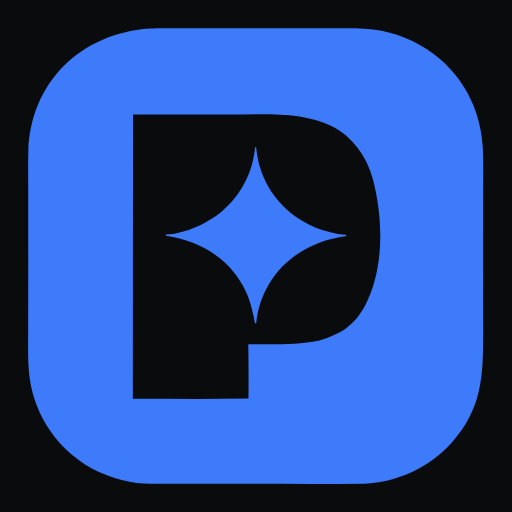
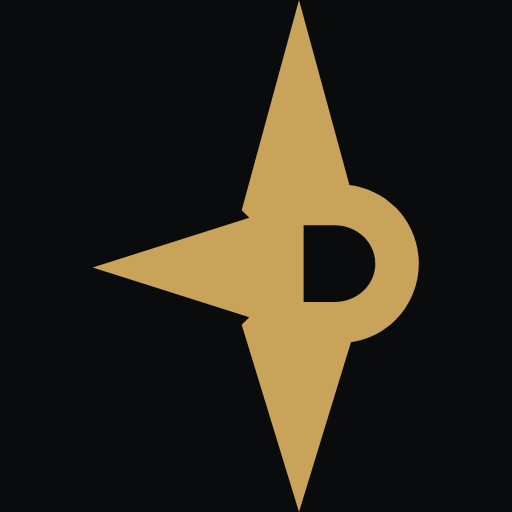
brand: swap to the compass rose P mark (brand layer only)
Mark, colourways, favicon, outlined Cormorant lockup, previews and OG card
replaced; navy/gold/cream primitives and a brand/mark semantic token added
(gold in dark, navy in light); UI keeps ink surfaces and the blue accent.
Figma library mirrored by hand (see decisions.md).

diff --git a/src/styles/tokens.css b/src/styles/tokens.css
@@ -21,6 +21,9 @@
   --green-600: #3F6B5B;
   --green-500: #4F8168;
   --green-400: #6FA184;
+  --navy-900: #16213B;
+  --gold-500: #C9A35A;
+  --cream-100: #F3EEE3;
   --type-11-size: 11px;
   --type-11-line: 16px;
   --type-12-size: 12px;
@@ -79,6 +82,7 @@
   --tag-text-warning: #E8A33D;
   --accent-text: var(--blue-400);
   --button-accent-label: var(--ink-950);
+  --brand-mark: var(--gold-500);
 }
 
 :root[data-theme="light"] {
@@ -101,6 +105,7 @@
   --tag-text-warning: #815718;
   --accent-text: var(--blue-700);
   --button-accent-label: var(--paper-0);
+  --brand-mark: var(--navy-900);
 }
 
 /* Component tokens */

diff --git a/.storybook/manager-head.html b/.storybook/manager-head.html
@@ -36,9 +36,8 @@
 <meta name="twitter:image" content="https://pathfinder-ds.vercel.app/og.png" />
 
 <!--
-  The brand image is now a filled app-icon tile rather than the old flat
-  swoosh, so it carries far more optical weight at the same pixel size and
-  was dominating the sidebar header. Storybook has no config for brandImage
+  The brand image is the gold compass rose mark on a transparent canvas
+  (public/brand-mark.svg). Storybook has no config for brandImage
   dimensions, so it is constrained here.
 -->
 <style>

diff --git a/decisions.md b/decisions.md
@@ -200,3 +200,11 @@ file in `specs/decisions/`.
 | Component counts swept from "8 of 15" to "9 of 16" across `CLAUDE.md`, `design.md` (x3), the Storybook Introduction page (x3) and the case study (x8) | adding EmptyState silently falsified a number stated in 15 places. This is exactly the drift the one-direction pipeline exists to prevent, and it happened in prose rather than in tokens - the place the pipeline does not reach. Worth noting in the study: generated docs cannot go stale, hand-written counts can and did |
 | Introduction page also corrected from "one composed screen" to two, and now links the Figma library alongside the repo | both claims went stale in the same pass that added Search View. The Figma link uses the `/design/` URL form pointing at the cover page as the landing node |
 | Stale `mark / tile / final (queued swap)` container deleted from the Figma brand page | the swap shipped, so the label was actively wrong and the identity section directly above already shows the final mark at every size in every colorway |
+| Brand mark replaced by the compass rose P (north, south and west rays; the east ray is the bowl of a P), one shape at every size, designed in the separate `pathfinder brand mark` Figma file | the planner film and this study now share one identity. The swoosh-and-star tile read as a generic app-icon P; the compass rose carries the wayfinding idea in the shape itself and passed the logo gate (reads at 16 px, one colour, solid) |
+| Brand layer only: navy-900, gold-500 and cream-100 added as primitives plus one semantic token `brand/mark` (gold in dark, navy in light); the UI keeps ink surfaces and the blue accent | a full repaint would reopen every contrast pair, the Figma variables and both screens for no portfolio gain. Brand colors are scoped to the mark and brand surfaces and never replace `accent/*` |
+| `brand/mark.svg` ships literal gold, `mark-inverted.svg` literal navy, new `mark-cream.svg` literal cream, `mark-mono.svg` keeps `currentColor`; `mark-flat.svg` deleted | the new mark is a single colour, so the old flat/two-tone split no longer exists; one file per brand colorway plus a theme-inheriting mono file covers every use |
+| Favicon is the mark on a navy rounded tile with a 2.6-unit stroke thickening, not the bare mark | at 16 px the bowl's opening closes up without the stroke, and a transparent favicon disappears on dark browser tabs; versions redrawn for 16 px were tested and read as a door knob or a blob |
+| Lockup wordmark set in Cormorant Garamond SemiBold (outlined with fontTools from the variable font at wght 600), replacing Geist | the brand wordmark is the serif from the brand file; Geist stays the UI typeface. Outlining keeps the SVG self-contained, same as the previous lockup |
+| `public/og.png` edited in place (old tile painted out, gold mark pasted at the same centre) rather than regenerated | the card's type, glow and layout were already right; only the mark changed |
+| Figma library mirrored: primitives navy/900, gold/500, cream/100 and semantic `brand/mark` (dark gold, light navy) added with the same scopes as the blue ramp; `brand mark` component set rebuilt in place with variants renamed tile/inverted/mono to navy/gold/mono | renaming in place kept every instance (cover, brand page, all four screen sidebars) linked, and the old usage already split by surface: the tile was used on light surfaces (now navy), inverted on dark (now gold) |
+| Brand page lockups rebuilt (mark instance + outlined Cormorant wordmark, wordmark keeps its existing bound fill), a paper backing added behind the light-use identity mark, and three brand swatches appended to the palette grid; cover mark swapped to gold and its stat line corrected from 76 to 80 variables | the brand page sits on a dark canvas, so a navy mark needs a light field to be read at all; the cover count is hand-typed and went stale the moment four variables were added, the same drift class as the component counts |

diff --git a/design.md b/design.md
@@ -21,6 +21,7 @@ colors:
   success: "#4F8168"       # success, dark theme (green/500)
   warning: "#E8A33D"        # warning, dark theme (literal)
   danger: "#E5484D"         # danger, dark theme (literal)
+  brand: "#C9A35A"          # brand/mark, dark theme (gold/500); mark and brand surfaces only, never UI
 typography:
   fontFamily: "'Geist', -apple-system, 'Segoe UI', sans-serif"
   monoFamily: "'Geist Mono', ui-monospace, 'SF Mono', monospace"
@@ -60,7 +61,7 @@ components:               # 9 of 16 Pathfinder components are built in code; the
 # Overview
 
 Pathfinder is a concept design system for a fictional planner/to-do/notes app: precision-productivity
-in personality, keyboard-first, with the wayfinding motif (constellation mark, trail lines) kept as a
+in personality, keyboard-first, with the wayfinding motif (the compass rose mark, trail lines) kept as a
 subtle hint rather than costume theming. Dark theme is first-class, not an inverted afterthought - the
 system is built dark-first and light is a mirror at the semantic tier only. The governing principle:
 every visual decision routes through `tokens/tokens.json`, never invented ad hoc.
@@ -90,6 +91,9 @@ every visual decision routes through `tokens/tokens.json`, never invented ad hoc
 | green/600 | #3F6B5B |
 | green/500 | #4F8168 |
 | green/400 | #6FA184 |
+| navy/900 | #16213B |
+| gold/500 | #C9A35A |
+| cream/100 | #F3EEE3 |
 
 ## Semantic (theme-swapped)
 | Token | Dark | Light |
@@ -110,6 +114,7 @@ every visual decision routes through `tokens/tokens.json`, never invented ad hoc
 | tag-text/neutral | {slate/300} `#9AA1B4` | {slate/500} `#4D5468` |
 | tag-text/danger | `#E5484D` (literal) | `#BE2F36` (literal) |
 | tag-text/warning | `#E8A33D` (literal) | `#815718` (literal) |
+| brand/mark | {gold/500} `#C9A35A` | {navy/900} `#16213B` |
 
 `tag-text/*` exists because Tag and DateChip render text on top of a translucent tint (the hue
 token at 18% opacity over `surface/base` or `surface/raised`, 13% for danger), not on a solid
@@ -120,10 +125,11 @@ both surface steps, in both themes (see `decisions.md`). One documented exceptio
 danger tint over `surface/raised` still falls short of 4.5:1 (dark 3.83:1, light 4.39:1), so
 danger only ships on `surface/base`.
 
-Usage rules: `accent/default` stays under ~10% of any view (buttons, active states, the
-constellation north star). Body text is always `text/primary` on `surface/base`; `surface/raised`
+Usage rules: `accent/default` stays under ~10% of any view (buttons, active states).
+Body text is always `text/primary` on `surface/base`; `surface/raised`
 is for cards, panels, and floating chrome (modal, command bar, toast). `border/subtle` is the only
-hairline color in the system - no ad hoc grays.
+hairline color in the system - no ad hoc grays. The brand colors (navy, gold, cream) belong to the
+mark and brand surfaces only, through `brand/mark`; they never replace `accent/*` in the UI.
 
 # Typography
 

diff --git a/brand/palette.md b/brand/palette.md
@@ -42,6 +42,28 @@ same technique used for the light-theme danger/warning nudge.
 | green-500 | #4F8168 |
 | green-400 | #6FA184 |
 
+### Brand (mark and brand surfaces only)
+The mark, lockup, favicon and brand art use navy, gold and cream. They are not UI colors: the
+interface keeps ink surfaces and the blue accent. `brand/mark` resolves to gold in dark theme and
+navy in light theme.
+
+| Token | Hex |
+|---|---|
+| navy-900 | #16213B |
+| gold-500 | #C9A35A |
+| cream-100 | #F3EEE3 |
+
+Measured (WCAG 2.x ratio; the mark is a graphic, so 3:1 is the floor, all clear 4.5:1 anyway):
+
+| Pair | Ratio |
+|---|---|
+| gold-500 on ink-950 | 8.32 |
+| gold-500 on ink-800 | 7.20 |
+| navy-900 on paper-0 | 15.45 |
+| navy-900 on paper-50 | 14.65 |
+| gold-500 on navy-900 | 6.75 |
+| cream-100 on navy-900 | 13.80 |
+
 ### Status
 Status colors are theme-aware like text/accent: the dark-theme hex is the base brand value; the
 light-theme hex is a lightness-only nudge (same hue and saturation) so text/UI use clears 4.5:1 on

diff --git a/.claude/rules/build.md b/.claude/rules/build.md
@@ -3,7 +3,7 @@
 <!-- @imported by CLAUDE.md. Keep it to the commands Claude actually needs to run this project. -->
 
 ## Stack
-Vite + React + Storybook. Deliberately basic: this project is proof of a one-direction tokens.json → CSS → code pipeline (with tokens.json also hand-mirrored into Figma variables), not a production app. 8 of 15 Pathfinder components get built in code; the rest live in Figma only.
+Vite + React + Storybook. Deliberately basic: this project is proof of a one-direction tokens.json → CSS → code pipeline (with tokens.json also hand-mirrored into Figma variables), not a production app. 9 of 16 Pathfinder components get built in code; the rest live in Figma only.
 
 ## Commands
 | Action | Command |
